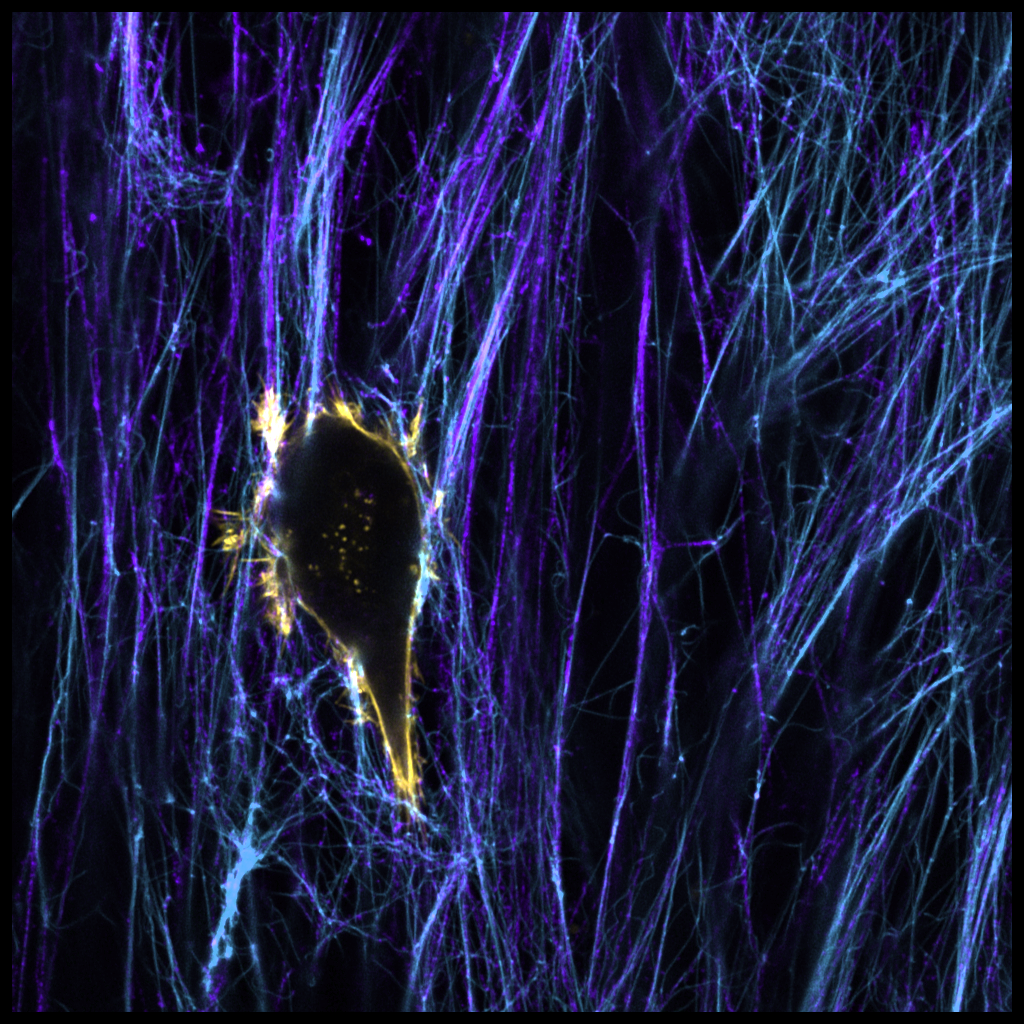
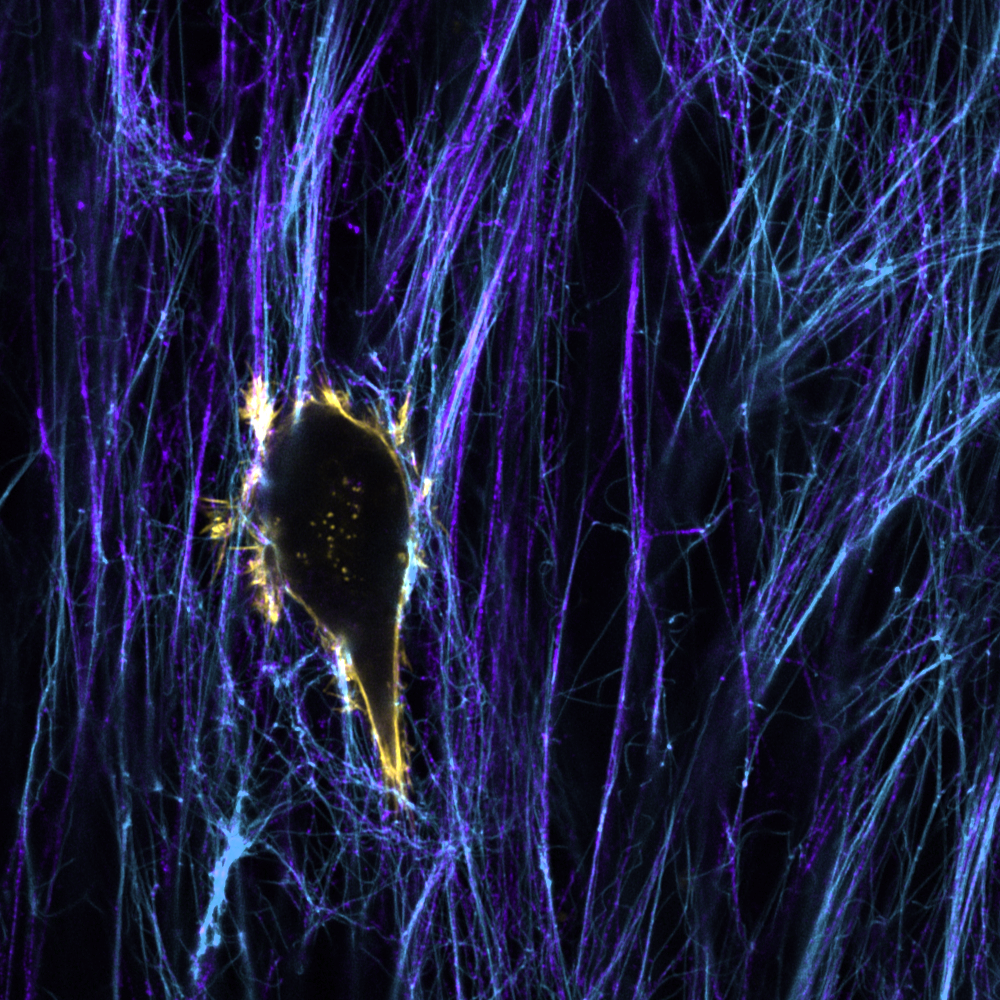
Home: centred title, hero picture without its black border, card badges on one line each (#83)
- The home title is centred, like the intro and the section titles below it
  (it was the only left-aligned block on the page).
- The hero picture (also in the gallery and the link preview) had a 12 px
  black border on every side, shown as dark bars at the page edges: trimmed.
- Featured research cards on the home page: the Open access badge has its own
  line on every card, instead of wrapping on some cards and not others.

Claude-Session: https://claude.ai/code/session_01Jciv6Leb2yHmVxebHwyyAf

diff --git a/docs/assets/stylesheets/cellmig.css b/docs/assets/stylesheets/cellmig.css
@@ -161,7 +161,7 @@ body, input, button { font-feature-settings: "cv11", "ss01"; }
 .cm-home { max-width: none; margin: 0; float: none; }
 .cm-home .md-typeset { margin: 0; }
 .cm-hero__text { display: grid; grid-template-columns: minmax(0, 1fr); align-items: end;   /* one column: the title only (#25) */ gap: 1.6rem; max-width: calc(var(--cm-wide) + 2 * var(--cm-gutter)); margin: 0 auto; padding: clamp(1.6rem, 6vw, 3.6rem) var(--cm-gutter) clamp(1.6rem, 5vw, 2.8rem); }
-.md-typeset .cm-hero__title { margin: 0; font-size: clamp(1.52rem, 4.4vw, 2.64rem); font-weight: 200; line-height: 1.22; letter-spacing: .14em; text-transform: uppercase; color: var(--cm-fg); overflow-wrap: normal; hyphens: none; }
+.md-typeset .cm-hero__title { margin: 0; text-align: center;   /* like the intro and the section titles below it */ font-size: clamp(1.52rem, 4.4vw, 2.64rem); font-weight: 200; line-height: 1.22; letter-spacing: .14em; text-transform: uppercase; color: var(--cm-fg); overflow-wrap: normal; hyphens: none; }
 .md-typeset .cm-hero__image, .md-typeset .cm-band { display: block; width: 100%; max-width: none; }
 .md-typeset .cm-hero__image { margin: 0; height: clamp(14.4rem, 48vw, 33.6rem); background: #000; }
 .cm-hero__image img, .cm-hero__image video { width: 100%; height: 100%; object-fit: cover; }
@@ -461,6 +461,7 @@ body, input, button { font-feature-settings: "cv11", "ss01"; }
 
 /* ------------------------------------------------------------------ featured research on the home page */
 .md-typeset .cm-cards--home .cm-card__meta { margin: .2rem 0 0; text-align: center; }
+.md-typeset .cm-cards--home .cm-card__meta .cm-badge { display: table; margin: .3rem auto 0; }   /* its own line on every card, not only where it wraps */
 .cm-card__placeholder { display: flex; align-items: center; justify-content: center; height: 100%; padding: 1.2rem; background: linear-gradient(135deg, #f3f0f7, #e9eef3); font-family: var(--cm-serif); font-size: 1rem; font-style: italic; color: #555; text-align: center; }
 
 /* ------------------------------------------------------------------ preprint lag figure */
